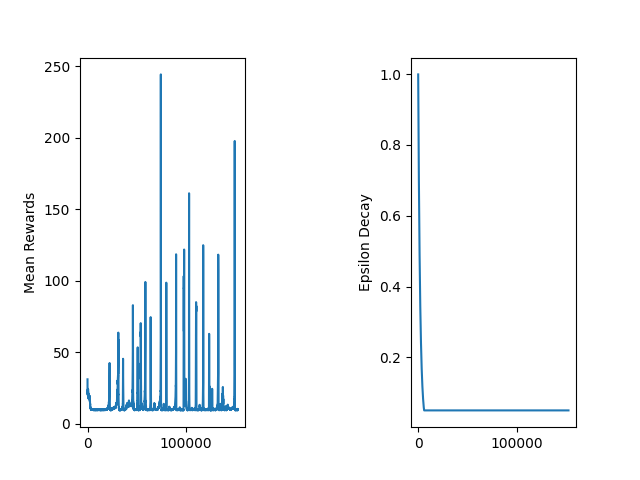
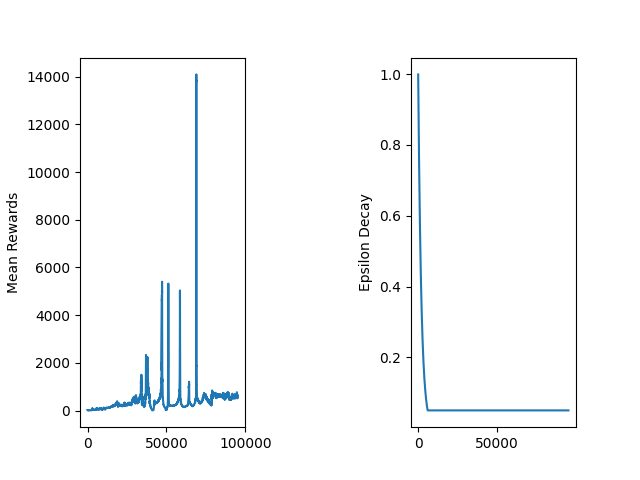
finished tutorial and finished trianing of cartpole until perfect performance

diff --git a/agent.py b/agent.py
@@ -49,6 +49,7 @@ class Agent:
         self.stop_on_reward = hyperparameters['stop_on_reward']
         self.fc1_nodes = hyperparameters ['fc1_nodes']
         self.env_make_params = hyperparameters.get('env_make_params', {})
+        self.enable_double_dqn = hyperparameters['enable_double_dqn']
 
         # Neural Network        
         self.loss_fn = nn.MSELoss()             #NN Loss function. MSE=Mean squared error can be swapped to sth else
@@ -232,13 +233,19 @@ class Agent:
         terminations = torch.tensor(terminations).float().to(device)
 
         with torch.no_grad():
-            # Calculate target Q values
-            target_q = rewards + (1-terminations) * self.discount_factor_g * target_dqn(new_states).max(dim=1)[0]
-            '''
-                target_dqn(new_states) ==> tensor([[1,2,3],[4,5,6]])
-                    .max(dim=1)        ==> torch.return_types.max(values=tensor([3,6]), indices=tensor([3, 0, 0, 1]))
-                        [0]            ==> tensor([3,6])            
-            '''
+            if self.enable_double_dqn:
+                best_actions_from_policy = policy_dqn(new_states).argmax(dim=1)
+
+                target_q = rewards + (1-terminations) * self.discount_factor_g * \
+                                target_dqn(new_states).gather(dim=1, index=best_actions_from_policy.unsqueeze(dim=1)).squeeze()
+            else:
+                # Calculate target Q values (expected returns)
+                target_q = rewards + (1-terminations) * self.discount_factor_g * target_dqn(new_states).max(dim=1)[0]
+                '''
+                    target_dqn(new_states) ==> tensor([[1,2,3],[4,5,6]])
+                        .max(dim=1)        ==> torch.return_types.max(values=tensor([3,6]), indices=tensor([3, 0, 0, 1]))
+                            [0]            ==> tensor([3,6])            
+                '''
 
         # Calculate Q values from current policy
         current_q = policy_dqn(states).gather(dim=1, index=actions.unsqueeze(dim=1)).squeeze()

diff --git a/dqn.py b/dqn.py
@@ -5,15 +5,45 @@ import torch.nn.functional as F
 
 class DQN(nn.Module):
 
-    def __init__(self, state_dim, action_dim, hidden_dim=256):
+    def __init__(self, state_dim, action_dim, hidden_dim=256, enable_dueling_dqn= True):
         super(DQN, self).__init__()
 
+        self.enable_dueling_dqn = enable_dueling_dqn
+
         self.fc1 = nn.Linear(state_dim, hidden_dim)
-        self.fc2 = nn.Linear(hidden_dim, action_dim)
+
+        if self.enable_dueling_dqn:
+            # Value stream
+            self.fc_value = nn.Linear(hidden_dim, 256)
+            self.value = nn.Linear(256,1)
+
+            # Advantage stream
+            self.fc_advantages = nn.Linear(hidden_dim,256)
+            self.advantages = nn.Linear(256, action_dim)
+
+        else:    
+            self.output = nn.Linear(hidden_dim, action_dim)
 
     def forward(self, x):
         x = F.relu(self.fc1(x))
-        return self.fc2(x)
+
+        if self.enable_dueling_dqn:
+            
+            # Value calculation
+            v = F.relu(self.fc_value(x))
+            V = self.value(v)
+
+            # Advantages Calculation
+            a = F.relu(self.fc_advantages(x))
+            A = self.advantages(a)
+
+            # Calculate Q
+            Q = V + A - torch.mean(A, dim=1, keepdim=True)
+
+        else:
+            Q = self.output(x)
+
+        return Q
     
 if __name__ == '__main__':
     state_dim = 12
